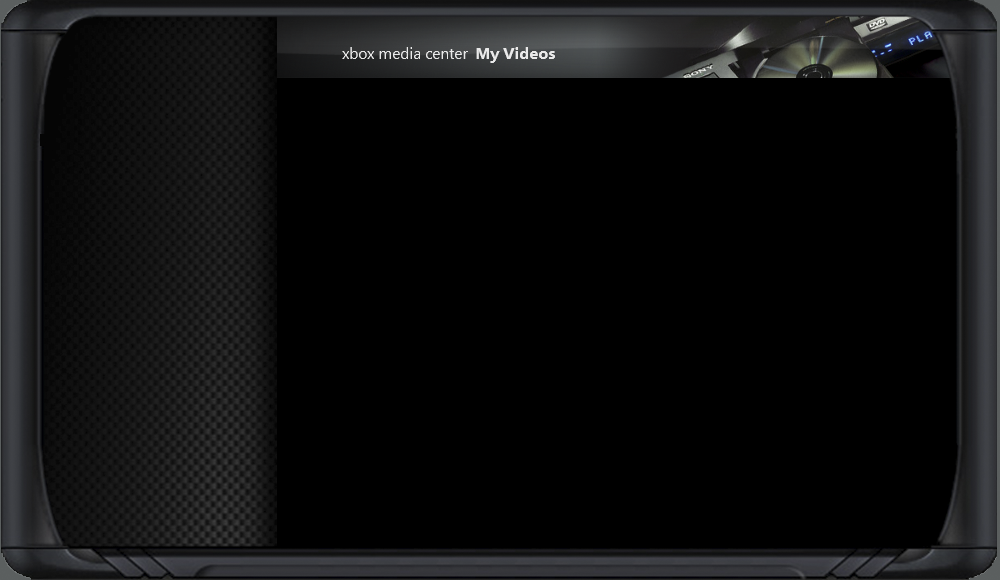
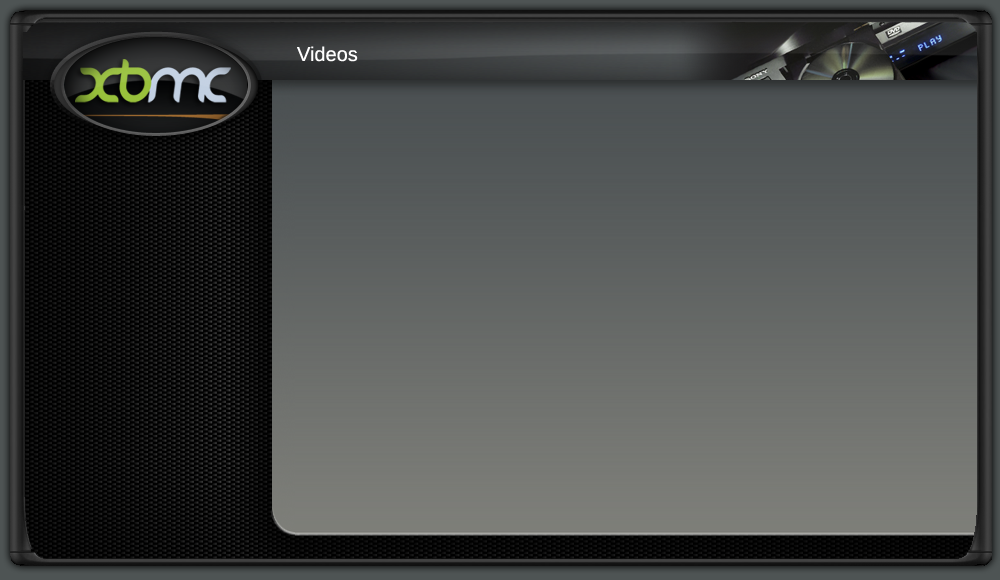
Changed : Initial Update of the Project Mayhem III web server graphics

diff --git a/branches/linuxport/XBMC/web/Project Mayhem III/styles/Project Mayhem/screen.css b/branches/linuxport/XBMC/web/Project Mayhem III/styles/Project Mayhem/screen.css
@@ -55,22 +55,7 @@ div.SiteBackgroundConfiguration
         float : left;
     
     }
-    
-    
-        #SiteContainer #SiteLeftContainer #SiteInfoContainer div
-        { 
-            position : absolute;
-            
-            width : 183px;
-            height : 98px;
-            
-            top : 38px;
-            left : 64px;
-            
-            background-image : url('images/InfoLogo.png');
-
-        }
-    
+        
     
     
         #SiteContainer #SiteLeftContainer #SiteMenuContainer
@@ -78,8 +63,8 @@ div.SiteBackgroundConfiguration
             position : absolute;
             width : 200px;
             height : 330px;
-            top : 140px;
-            left : 70px;
+            top : 150px;
+            left : 40px;
 
             /* Fix for buggy IE */
             font-size : 1px;        
@@ -95,9 +80,9 @@ div.SiteBackgroundConfiguration
                 #SiteContainer #SiteLeftContainer #SiteMenuContainer ul li a
                 {
                     display: block;
-                    margin : 0px 0px 13px 0px;
-                    width: 169px;
-                    height : 32px;
+                    margin : 0px 0px 2px 0px;
+                    width: 220px;
+                    height : 34px;
                 }
     
                     #SiteContainer #SiteLeftContainer #SiteMenuContainer ul li a span
@@ -624,10 +609,10 @@ div.SiteBackgroundConfiguration
         {
             
             position : absolute;
-            width : 310px;
-            height : 47px;
-            left : 55px;
-            top : 2px;
+            width : 200px;
+            height : 40px;
+            left : 0px;
+            top : 4px;
         }
         
         
@@ -647,23 +632,23 @@ div.SiteBackgroundConfiguration
         {
             position : absolute;
             width : 685px;
-            height : 420px;
+            height : 430px;
             left : 8px;
-            top : 56px;
+            top : 60px;
             
             float : left;
             
             color : #FFFFFF;
             
             overflow : auto;
-            scrollbar-base-color : #091C20;
+            scrollbar-base-color : #c7c7c7;
             scrollbar-3dlight-color : #000000;
-            scrollbar-arrow-color : #FFFFFF;
+            scrollbar-arrow-color : #FF00000;
             scrollbar-darkshadow-color : #000000;
-            scrollbar-face-color : #324A51;
-            scrollbar-highlight-color : #324A51;
-            scrollbar-shadow-color : #324A51;
-            scrollbar-track-color : #000000;  
+            scrollbar-face-color : #bdbdbd;
+            scrollbar-highlight-color : #bdbdbd;
+            scrollbar-shadow-color : #bdbdbd;
+            scrollbar-track-color : #8b8b8b;  
 
 
         }
